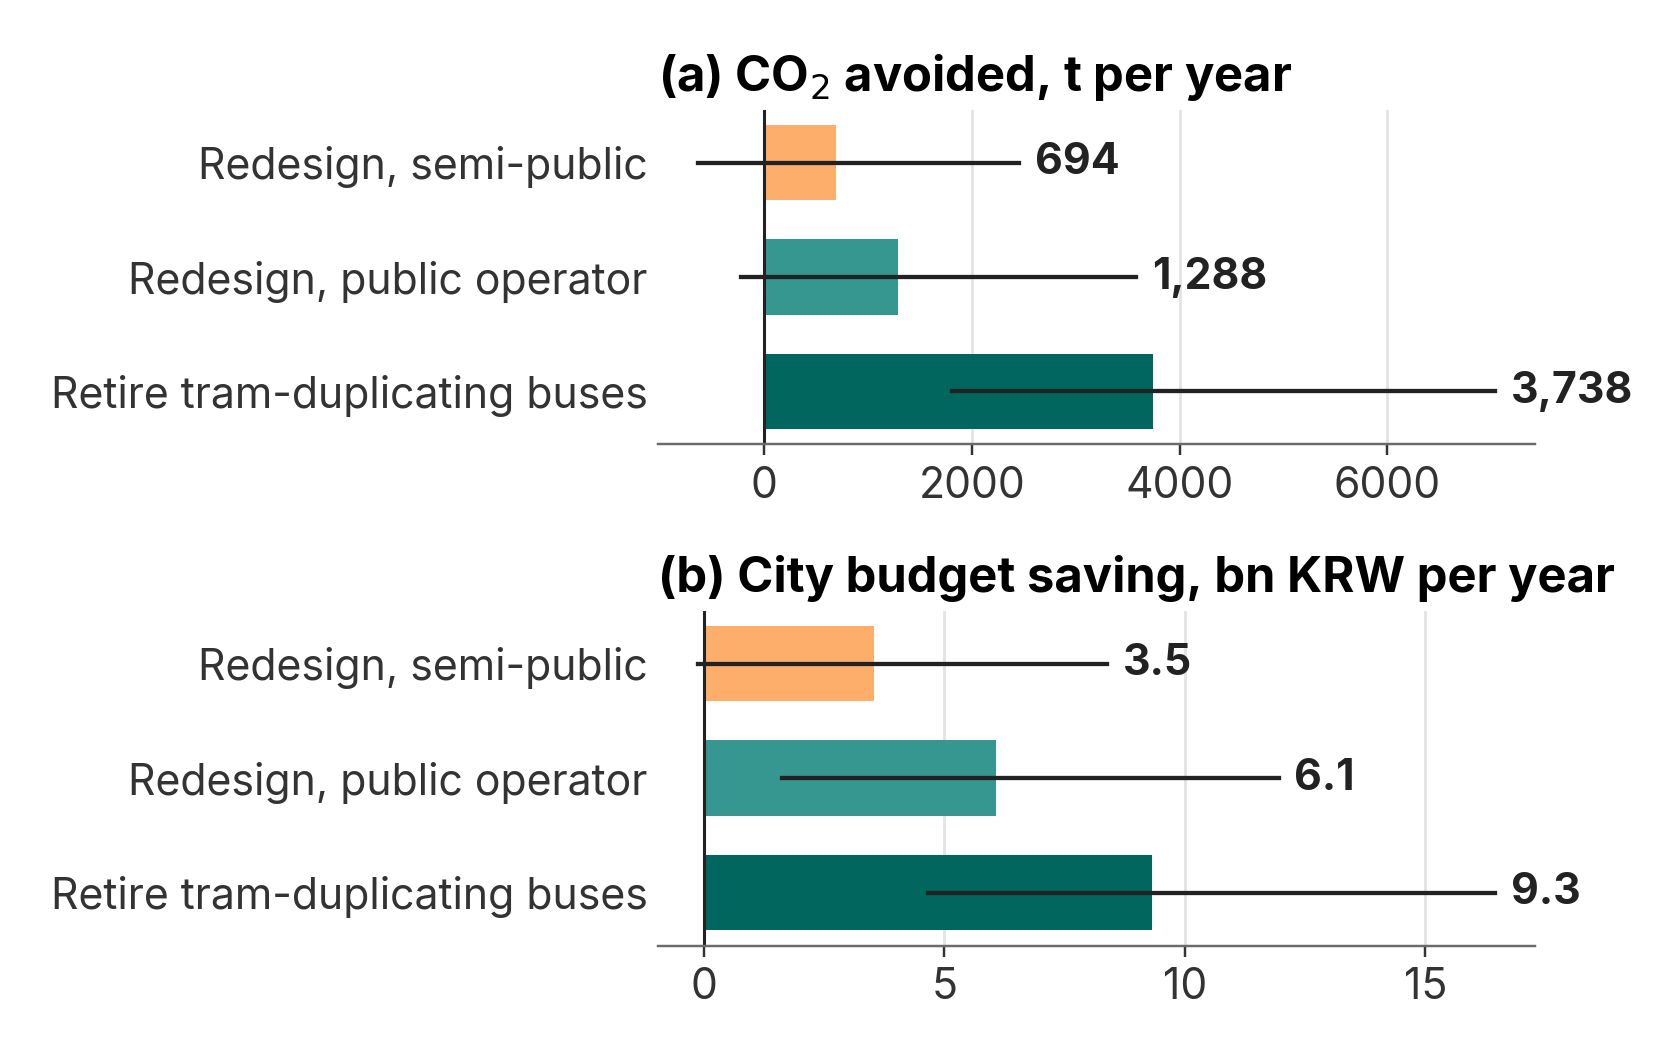
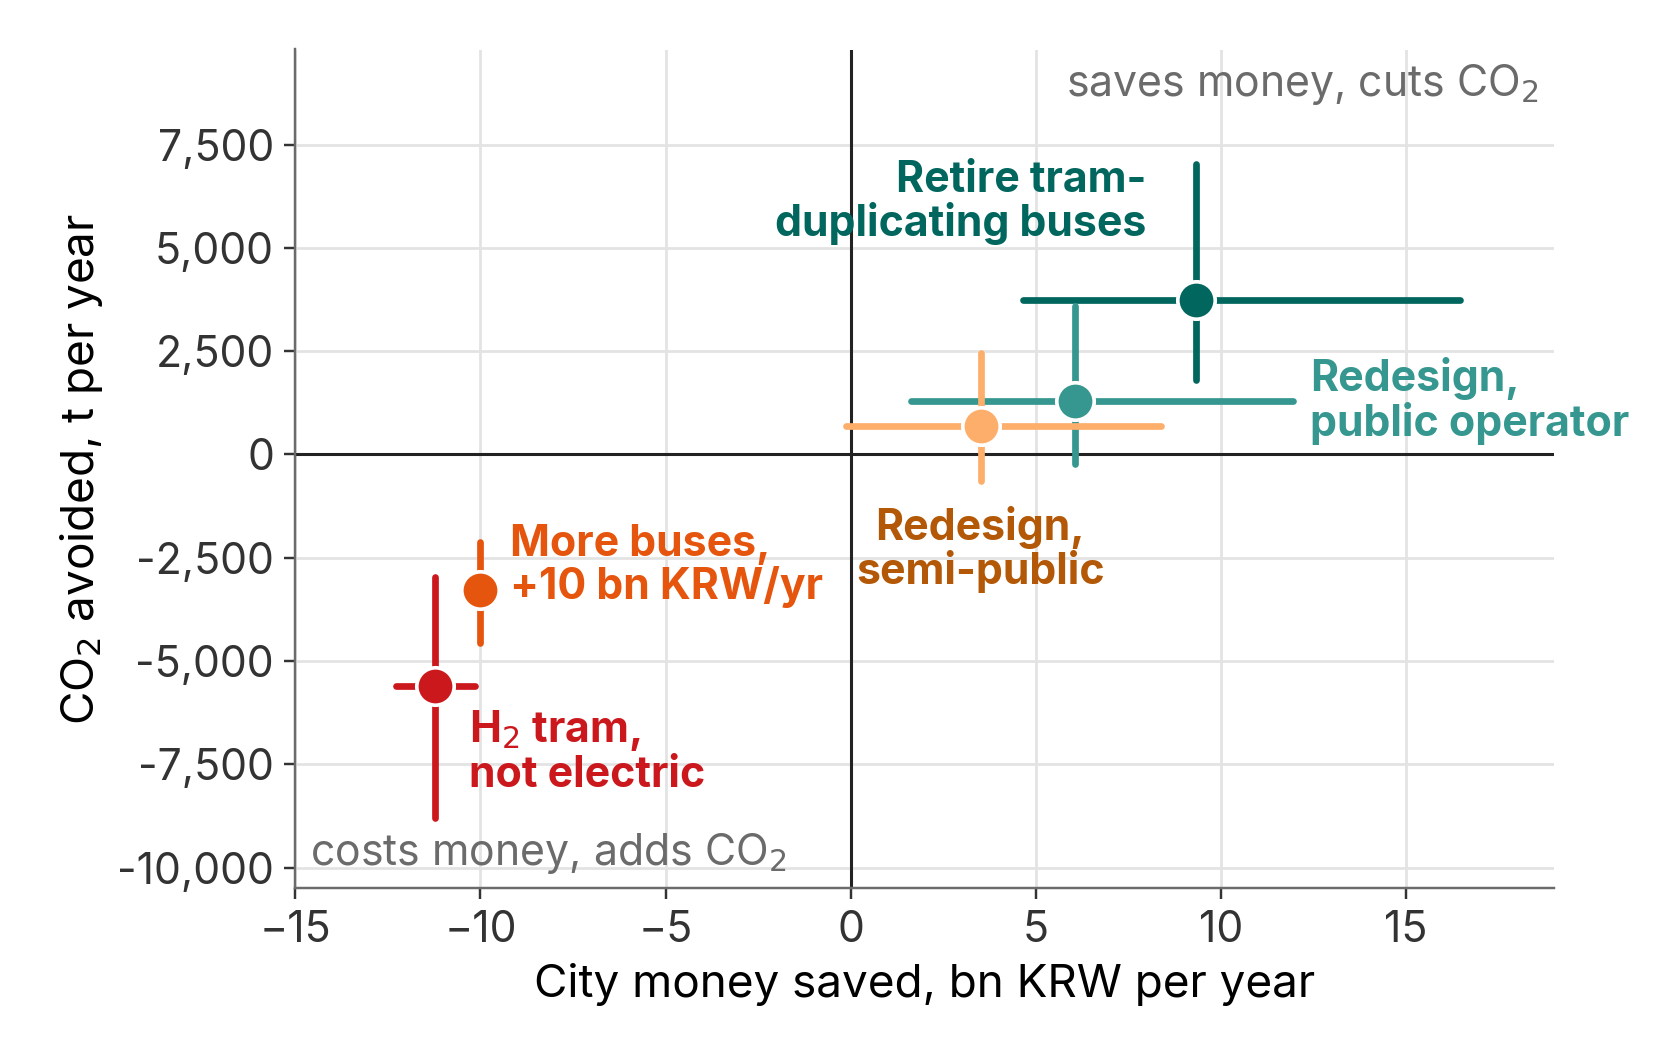
Redraw three figures: cost-effectiveness plane, unit chart, scale to the 2030 gap

diff --git a/figures.py b/figures.py
@@ -11,6 +11,7 @@ import pandas as pd
 import matplotlib
 matplotlib.use("Agg")
 import matplotlib.pyplot as plt
+import matplotlib.ticker
 from matplotlib import font_manager as fm
 
 from colors import COLORS as K, WATERFALL, TORNADO_LOW, TORNADO_HIGH
@@ -258,18 +259,40 @@ def fig_e(mc):
 
 # (f) restructuring, two stacked panels -------------------------------------------------
 def fig_f(mc):
+    """Cost-effectiveness plane: yearly city money (x) against yearly CO2 (y)."""
+    d = pd.read_csv("data_context.csv").set_index("item")["value"]
+    need_t = (d["transport_ghg_2018"] - d["transport_ghg_2030_target"]) * 1000
     mc = mc.copy()
     mc["R_C_gain"] = -mc["R_C_net_cost_bn"]
     mc["R_D_gain"] = -mc["R_D_net_cost_bn"]
-    names = ["Redesign, semi-public", "Redesign, public operator", "Retire tram-duplicating buses"]
-    fig, (ax1, ax2) = plt.subplots(2, 1, figsize=SLOT, sharey=False)
-    _hbars(ax1, list(zip(names, ["R_C_t", "R_D_t", "T2_t_retire"], [K["R_C"], K["R_D"], K["T2"]])), mc)
-    ax1.axvline(0, color="#222222", lw=1)
-    ax1.set_title("(a) CO$_2$ avoided, t per year")
-    _hbars(ax2, list(zip(names, ["R_C_gain", "R_D_gain", "T2_saving_retire_bn"], [K["R_C"], K["R_D"], K["T2"]])),
-           mc, fmt=lambda v: f"{v:.1f}")
-    ax2.axvline(0, color="#222222", lw=1)
-    ax2.set_title("(b) City budget saving, bn KRW per year")
+    mc["H2_x"] = -mc["T1_h2_extra_cost_bn"]
+    mc["H2_y"] = -mc["T1_h2_extra_t_mix"]
+    mc["C10_x"] = -10.0
+    mc["C10_y"] = mc["gap_pct_C_10bn"] * need_t / 100
+    pts = [("Retire tram-\nduplicating buses", "T2_saving_retire_bn", "T2_t_retire", K["T2"], (8.0, 6100), "right"),
+           ("Redesign,\npublic operator", "R_D_gain", "R_D_t", K["R_D"], (12.4, 1300), "left"),
+           ("Redesign,\nsemi-public", "R_C_gain", "R_C_t", K["R_C"], (3.5, -2300), "center"),
+           ("More buses,\n+10 bn KRW/yr", "C10_x", "C10_y", K["C"], (-9.2, -2700), "left"),
+           ("H$_2$ tram,\nnot electric", "H2_x", "H2_y", K["H2_mix"], (-10.3, -7200), "left")]
+    fig, ax = plt.subplots(figsize=SLOT)
+    ax.axhline(0, color="#222222", lw=1)
+    ax.axvline(0, color="#222222", lw=1)
+    for label, cx, cy, c, off, ha in pts:
+        xl, xm, xh = _q(mc[cx])
+        yl, ym, yh = _q(mc[cy])
+        ax.plot([xl, xh], [ym, ym], color=c, lw=2.2, solid_capstyle="round")
+        ax.plot([xm, xm], [yl, yh], color=c, lw=2.2, solid_capstyle="round")
+        ax.scatter([xm], [ym], s=150, color=c, edgecolor="white", linewidth=1.2, zorder=3)
+        tc = "#b35806" if c == K["R_C"] else c
+        ax.text(off[0], off[1], label, ha=ha, va="center", fontsize=FS - 1, fontweight="bold", color=tc, linespacing=1.05)
+    ax.set_xlim(-15, 19)
+    ax.set_ylim(-10500, 9800)
+    ax.text(18.6, 9500, "saves money, cuts CO$_2$", ha="right", va="top", fontsize=FS - 1, color="#6b6b6b")
+    ax.text(-14.6, -10200, "costs money, adds CO$_2$", ha="left", va="bottom", fontsize=FS - 1, color="#6b6b6b")
+    ax.yaxis.set_major_formatter(matplotlib.ticker.FuncFormatter(lambda v, _: f"{v:,.0f}"))
+    ax.grid(True)
+    ax.set_xlabel("City money saved, bn KRW per year")
+    ax.set_ylabel("CO$_2$ avoided, t per year")
     _save(fig, "f_restructuring")
 
 
@@ -367,27 +390,30 @@ def fig_j():
 
 # (k) annual money at stake, one scale ----------------------------------------------
 def fig_k(mc):
+    """Unit chart: yearly money in units of one year of the Teukgu 1 bus."""
     d = pd.read_csv("data_context.csv").set_index("item")["value"]
-    mc = mc.copy()
-    mc["tukgu"] = d["tukgu_cost_bn_yr"]
-    rows = [("H$_2$ tram energy,|extra vs electric", "T1_h2_extra_cost_bn", K["H2_mix"]),
-            ("Time lost to|tram works", "W_time_cost_bn_yr", K["W"]),
-            ("Public-operation|saving", "D_system_saving_bn", K["D"]),
-            ("Teukgu 1 bus,|cost of running it", "tukgu", K["tukgu"])]
+    unit = d["tukgu_cost_bn_yr"]
+    rows = [("H$_2$ tram energy,|extra vs electric", _q(mc["T1_h2_extra_cost_bn"])[1], K["H2_mix"]),
+            ("Time lost to|tram works", _q(mc["W_time_cost_bn_yr"])[1], K["W"]),
+            ("Public-operation|saving", _q(mc["D_system_saving_bn"])[1], K["D"]),
+            ("Teukgu 1 bus,|one year", unit, K["tukgu"])]
     fig, ax = plt.subplots(figsize=SLOT)
     y = np.arange(len(rows))[::-1]
-    for yi, (label, col, c) in zip(y, rows):
-        lo, md, hi = _q(mc[col])
-        ax.barh(yi, md, color=c, height=0.62)
-        if hi - lo > 1e-9:
-            ax.plot([lo, hi], [yi, yi], color="#222222", lw=1.4)
-        ax.text(max(hi, md) + 0.5, yi, f"{md:.1f}", va="center", fontsize=FS, fontweight="bold")
+    side, gap = 0.80, 1.0
+    for yi, (label, v, c) in zip(y, rows):
+        n = v / unit
+        for k in range(int(np.ceil(n - 1e-9))):
+            w = side * min(1.0, n - k)
+            ax.add_patch(plt.Rectangle((k * gap, yi - 0.3), w, 0.6, color=c, lw=0))
+        ax.text(np.ceil(n - 1e-9) * gap + 0.15, yi, f"{v:.1f} bn", va="center", fontsize=FS, fontweight="bold")
     ax.set_yticks(y, [r[0].replace("|", chr(10)) for r in rows])
     ax.tick_params(axis="y", length=0)
-    ax.spines["left"].set_visible(False)
-    ax.axvline(0, color="#222222", lw=1)
-    ax.grid(axis="x")
-    ax.set_xlabel("bn KRW per year (median, 90% interval)")
+    ax.set_xticks([])
+    for sp in ("left", "bottom"):
+        ax.spines[sp].set_visible(False)
+    ax.set_xlim(-0.2, 16.3)
+    ax.set_ylim(-0.6, len(rows) - 0.4)
+    ax.set_xlabel(f"One block = one year of Teukgu 1 ({unit:.1f} bn KRW); medians")
     _save(fig, "k_money_per_year")
 
 
@@ -404,6 +430,10 @@ def fig_a2(mc):
 
 
 def fig_h2(mc):
+    """Scale: the needed cut drawn to scale (a), then the policies magnified (b)."""
+    d = pd.read_csv("data_context.csv").set_index("item")["value"]
+    need = d["transport_ghg_2018"] - d["transport_ghg_2030_target"]
+    cuts = (mc["gap_pct_T2_retire"] + mc["gap_pct_R_D"] + mc["gap_pct_EV_2026_cohort"]).median() * need / 100
     rows = [("Retire tram-duplicating buses", "gap_pct_T2_retire", K["T2"]),
             ("Redesign, public operator", "gap_pct_R_D", K["R_D"]),
             ("Redesign, semi-public", "gap_pct_R_C", K["R_C"]),
@@ -411,10 +441,23 @@ def fig_h2(mc):
             ("Tram works congestion", "gap_pct_W", K["W"]),
             ("+10 bn KRW/yr more buses", "gap_pct_C_10bn", K["C"]),
             ("H$_2$ tram, not electric", "gap_pct_H2_vs_electric_tram", K["H2_mix"])]
-    fig, ax = plt.subplots(figsize=SLOT)
-    _hbars(ax, rows, mc, fmt=lambda v: f"{v:.2f}", suffix="%")
-    ax.axvline(0, color="#222222", lw=1)
-    ax.set_xlabel("% of the cut Daejeon needs in transport by 2030")
+    mk = mc.copy()
+    for _, col, _c in rows:
+        mk[col] = mc[col] * need / 100
+    fig, (ax1, ax2) = plt.subplots(2, 1, figsize=SLOT, gridspec_kw={"height_ratios": [1.0, 4.2]})
+    ax1.barh(0, need, color="#d0d0d0", height=0.6)
+    ax1.barh(0, cuts, color=K["T2"], height=0.6)
+    ax1.text(need / 2, 0, f"needed by 2030: {need:,.0f} kt a year", ha="center", va="center", fontsize=FS - 1)
+    ax1.annotate(f"retirement + redesign + EV cohort: {cuts:.0f} kt", (cuts / 2, 0.3), xytext=(10, 7), textcoords="offset points",
+                 fontsize=FS - 1, fontweight="bold", color=K["T2"], ha="left", va="bottom",
+                 arrowprops=dict(arrowstyle="-", color=K["T2"], lw=1.2, shrinkA=0, shrinkB=0))
+    ax1.set_title("(a) Drawn to scale", pad=30)
+    ax1.set_xlim(0, need * 1.005)
+    ax1.set_ylim(-0.3, 0.3)
+    ax1.axis("off")
+    _hbars(ax2, rows, mk, fmt=lambda v: f"{v:+.1f}")
+    ax2.axvline(0, color="#222222", lw=1)
+    ax2.set_title("(b) Magnified about 100 times, kt a year")
     _save(fig, "h2_scale_vs_target_short")
 
 
